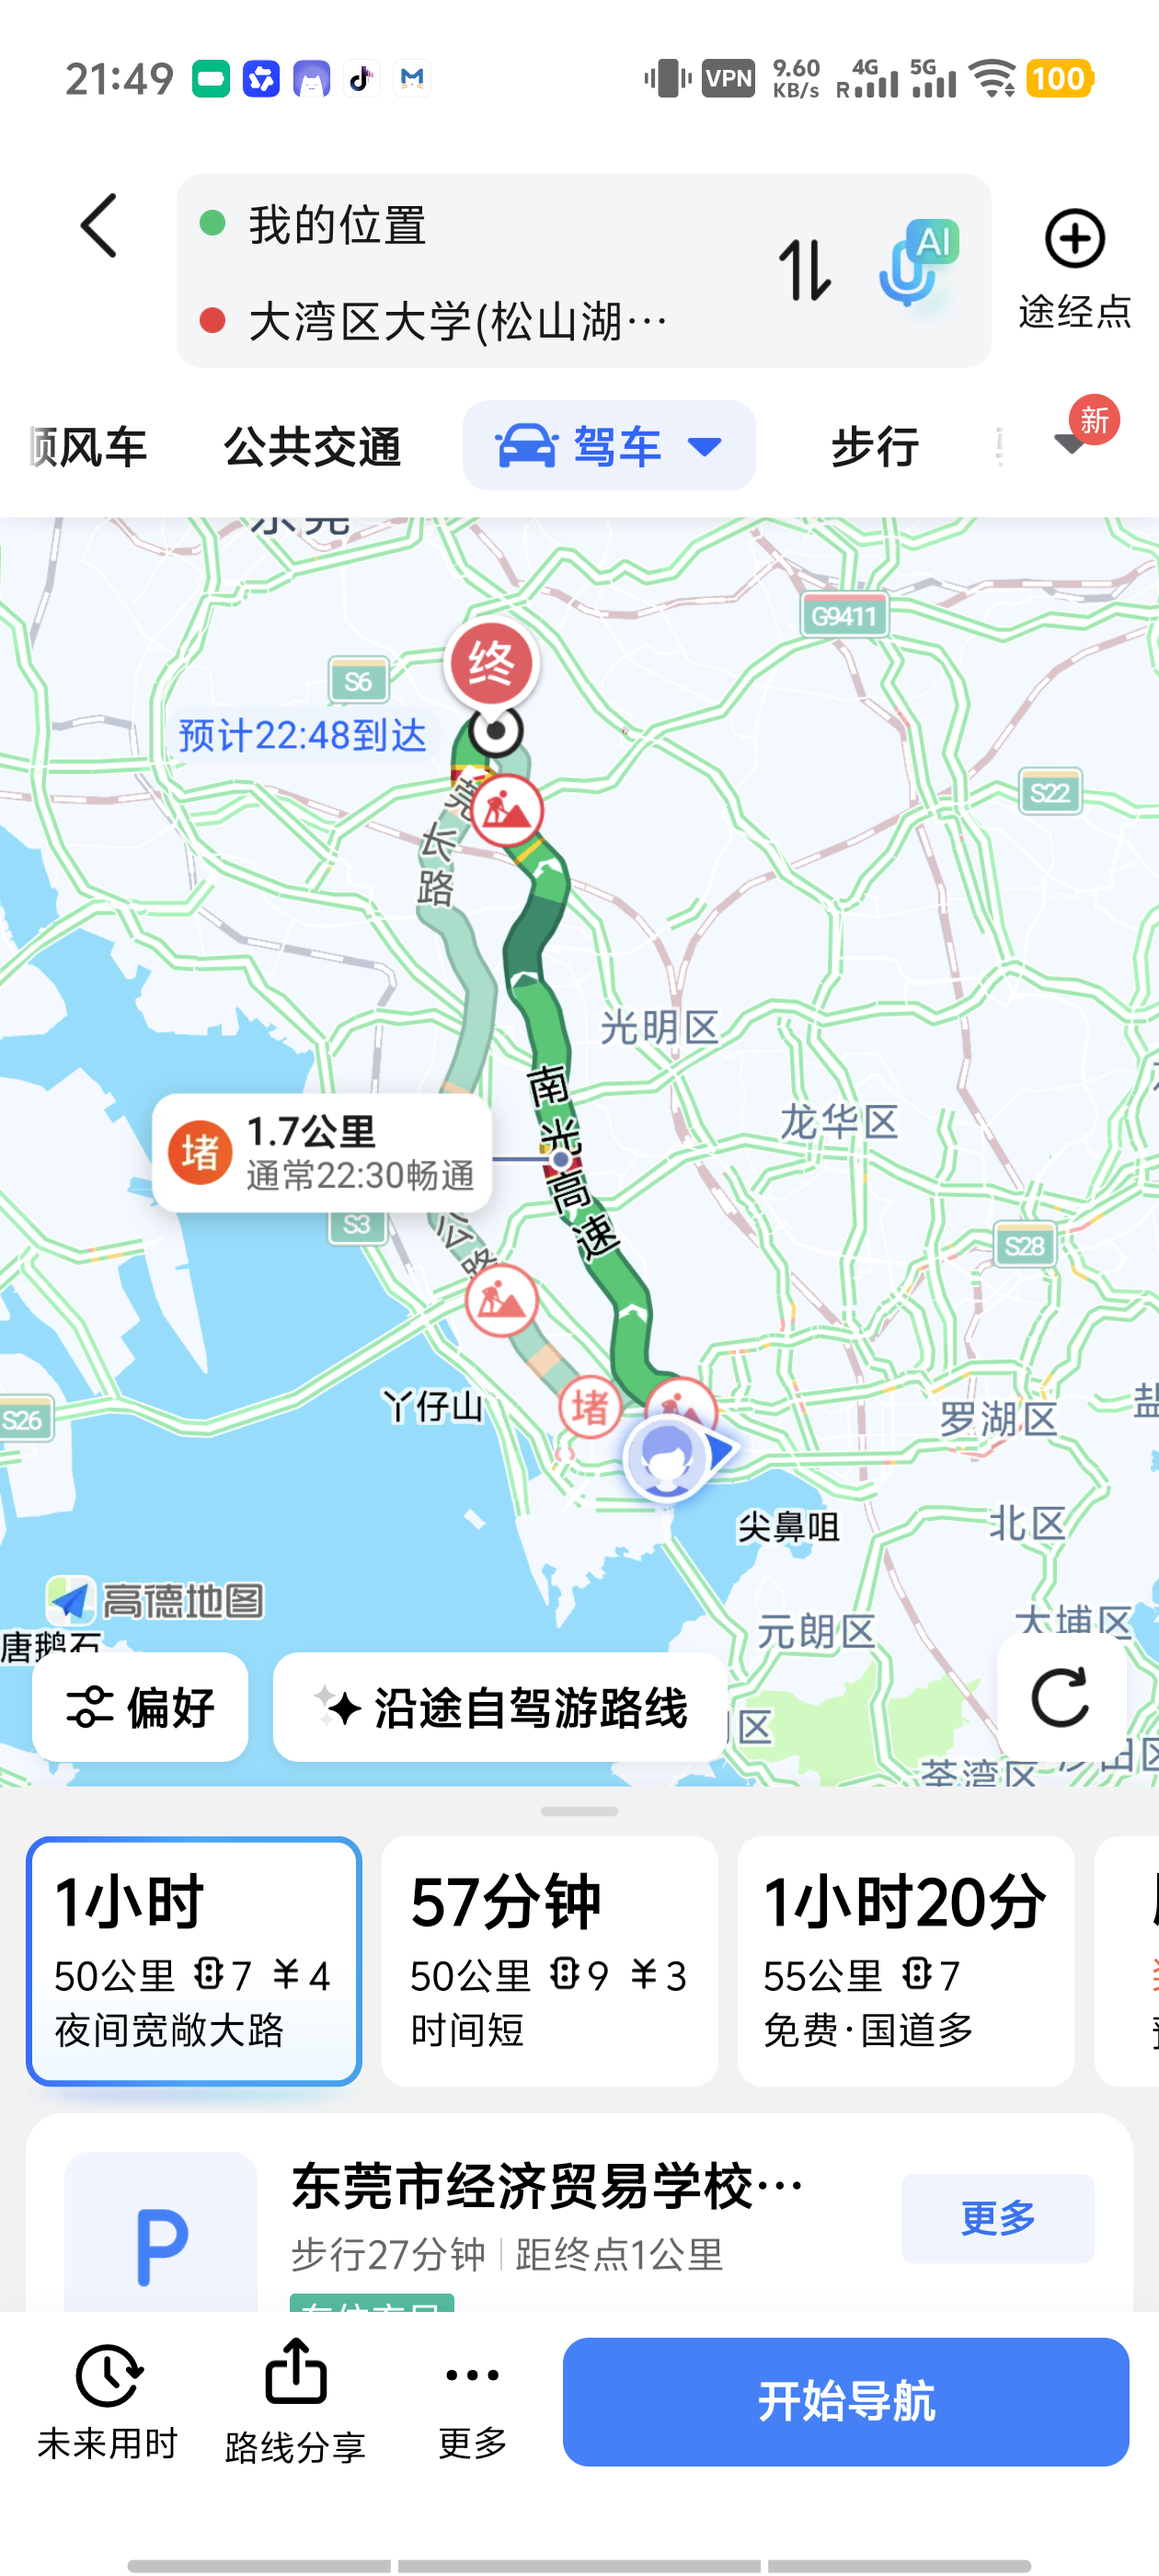
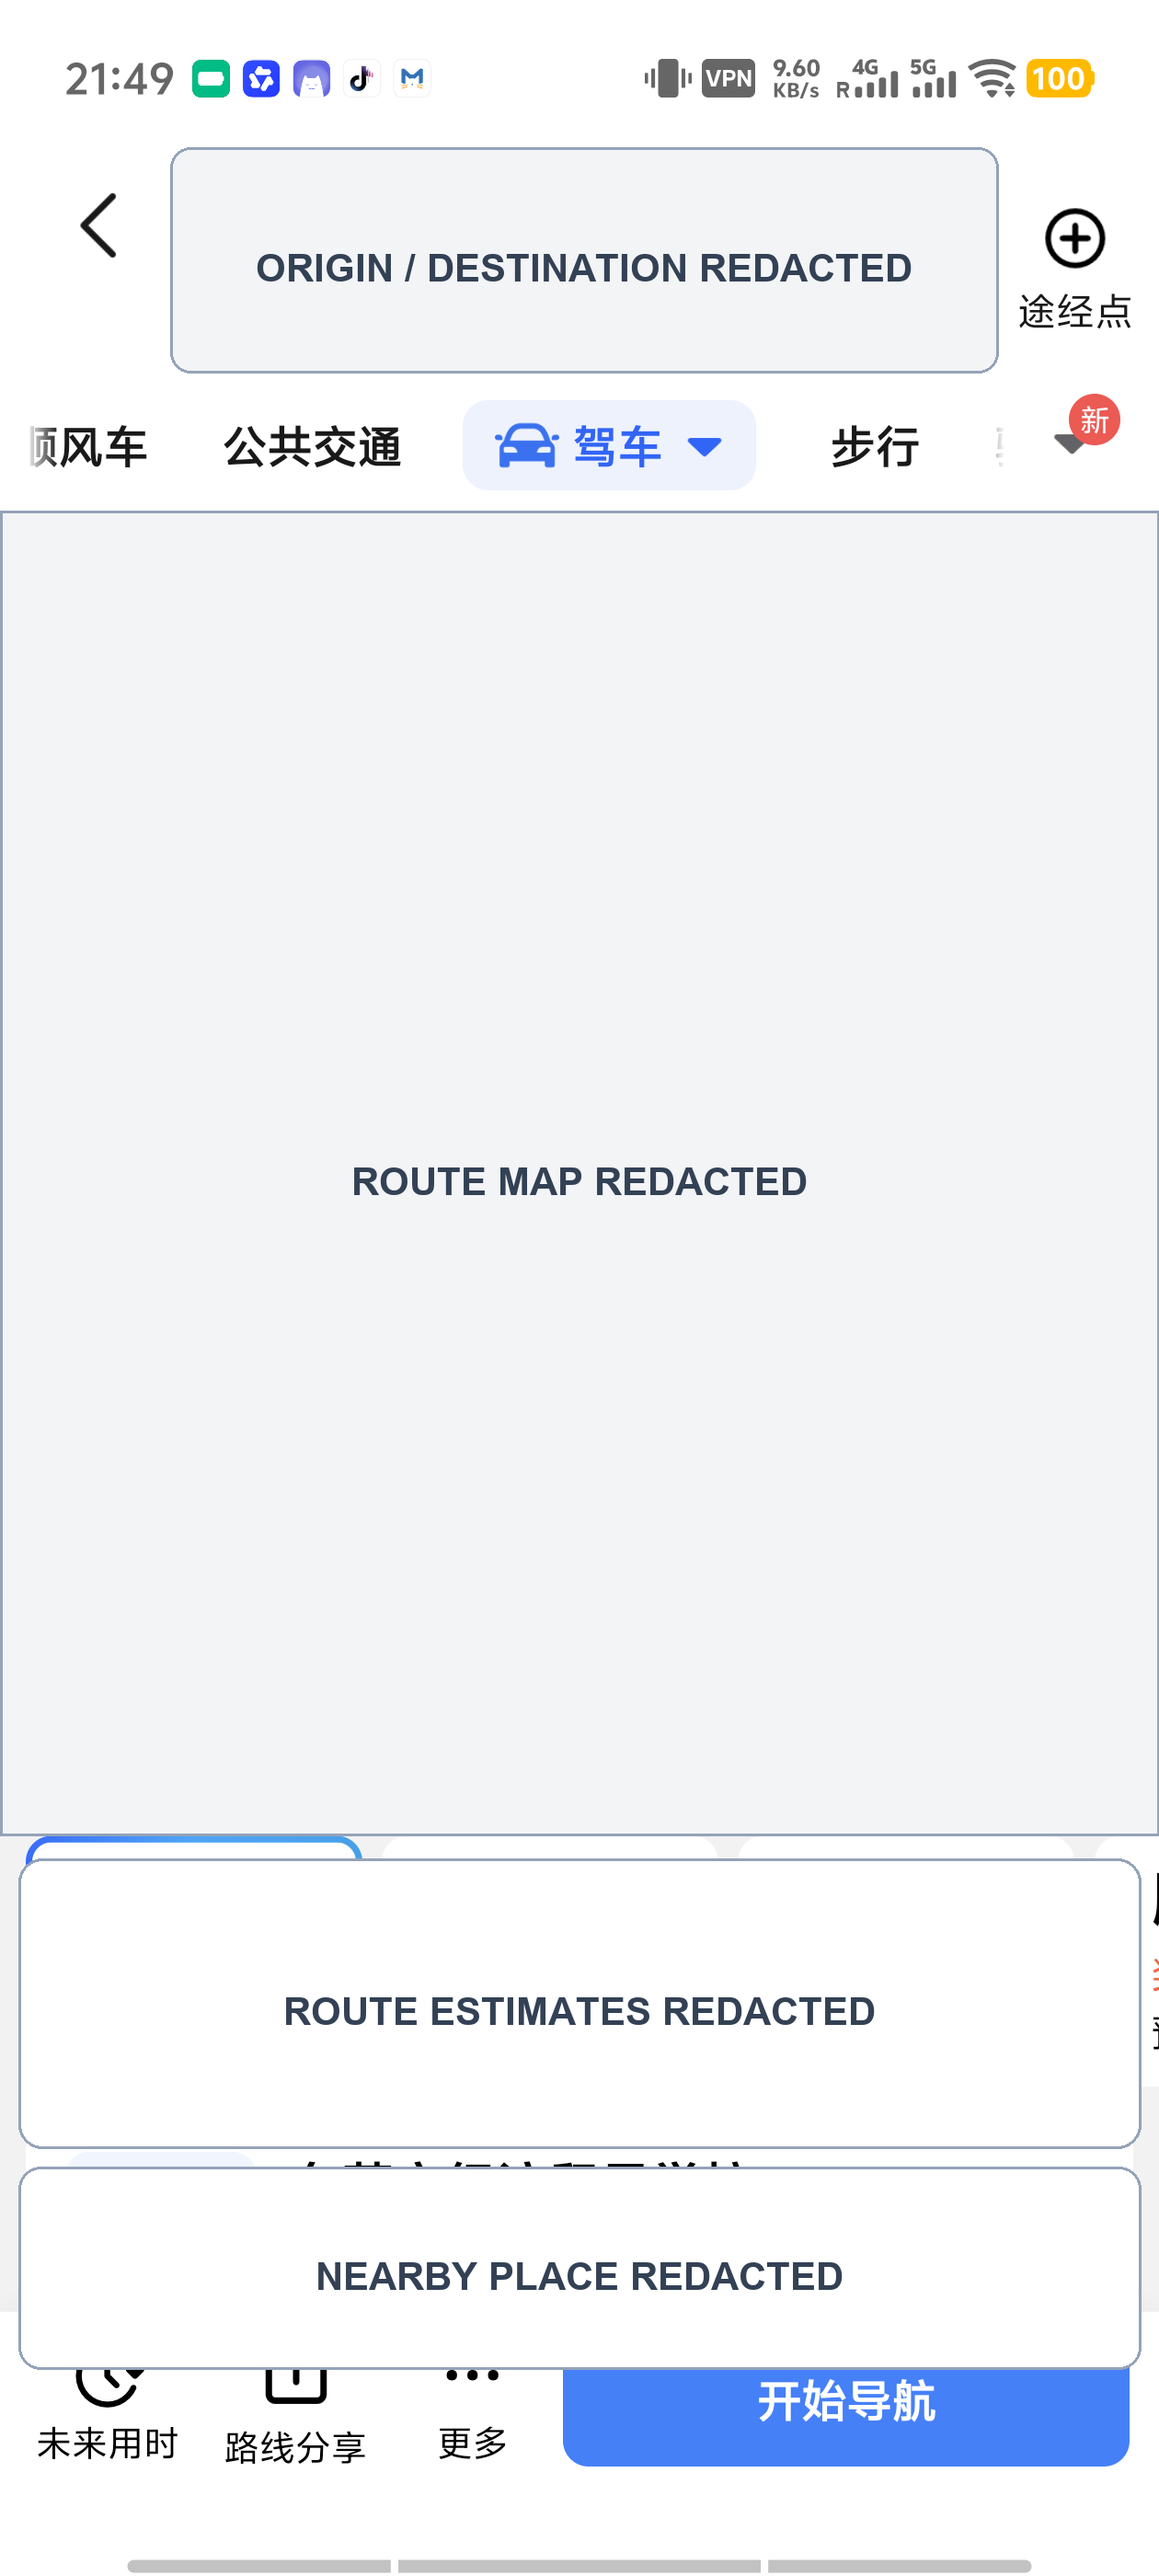
Redact mobile-on-mobile demo details

diff --git a/Docs/experiments/mobile-on-mobile-agent-loop.md b/Docs/experiments/mobile-on-mobile-agent-loop.md
@@ -26,13 +26,14 @@ flowchart LR
 
 ## Demo task
 
-Task: ask from the phone, then have desktop Codex operate the same phone to check how long it takes to go from the current location to Great Bay University in Amap.
+Task: ask from the phone, then have desktop Codex operate the same phone to check how long it takes to go from the current location to a redacted destination in a map app.
 
 Result observed in the live demo:
 
-- Amap found `大湾区大学（松山湖校区）` in Dongguan.
-- The driving route page showed about `50 km` and a fastest route of `57 minutes`.
-- The ride page showed about `48.2 km` and `56-57 minutes`.
+- The map app found the target destination.
+- The driving route page showed a route estimate.
+- The ride page showed a ride estimate.
+- The exact destination, route distance, timing, and map context are redacted in the published artifact.
 - No ride order, payment, message sending, or irreversible action was confirmed.
 
 ## Evidence
@@ -43,22 +44,22 @@ Phone-side Codex control surface:
   <img src="../assets/demo/mobile-on-mobile/01-phone-codex-command.png" width="300" alt="Phone-side Codex session">
 </p>
 
-Amap target search result:
+Map target search result:
 
 <p align="center">
-  <img src="../assets/demo/mobile-on-mobile/02-amap-search-result.png" width="300" alt="Amap search result for Great Bay University">
+  <img src="../assets/demo/mobile-on-mobile/02-amap-search-result.png" width="300" alt="Map search result with destination redacted">
 </p>
 
-Amap driving route estimate:
+Map driving route estimate:
 
 <p align="center">
-  <img src="../assets/demo/mobile-on-mobile/03-amap-driving-eta.png" width="300" alt="Amap driving route estimate">
+  <img src="../assets/demo/mobile-on-mobile/03-amap-driving-eta.png" width="300" alt="Map driving route estimate with location details redacted">
 </p>
 
-Amap ride estimate:
+Map ride estimate:
 
 <p align="center">
-  <img src="../assets/demo/mobile-on-mobile/04-amap-ride-eta.png" width="300" alt="Amap ride estimate">
+  <img src="../assets/demo/mobile-on-mobile/04-amap-ride-eta.png" width="300" alt="Map ride estimate with location details redacted">
 </p>
 
 ## Minimal reproduction
@@ -86,7 +87,7 @@ Representative ADB actions:
 
 ```sh
 adb devices -l
-adb shell monkey -p com.autonavi.minimap -c android.intent.category.LAUNCHER 1
+adb shell monkey -p your.map.package.name -c android.intent.category.LAUNCHER 1
 adb exec-out screencap -p > screen.png
 adb shell uiautomator dump /sdcard/window.xml
 adb exec-out cat /sdcard/window.xml > window.xml
@@ -105,4 +106,3 @@ adb shell input tap 1100 1300
 The important result is not that ADB can tap a phone. The important result is that a mobile agent session can trigger a desktop agent to operate the same mobile GUI, then report back to the user on the phone.
 
 This points to a broader pattern: phone as controller, desktop as executor, real app GUI as the action surface.
-

diff --git a/Docs/blog/mobile-on-mobile-agent-loop.zh.md b/Docs/blog/mobile-on-mobile-agent-loop.zh.md
@@ -10,7 +10,7 @@
 
 过去我们通常把手机理解成 Agent 的遥控器。比如人在路上，用手机查看桌面 Codex 的进度，批准命令，补充上下文。
 
-但这次多了一层：手机不只是遥控器，它也是任务对象。手机端发出指令后，电脑端 Agent 可以打开同一台手机上的高德、浏览器、微信、文件 App，像人一样看屏幕、点按钮、读结果、截图确认。
+但这次多了一层：手机不只是遥控器，它也是任务对象。手机端发出指令后，电脑端 Agent 可以打开同一台手机上的地图、浏览器、微信、文件 App，像人一样看屏幕、点按钮、读结果、截图确认。
 
 这个 loop 是：
 
@@ -22,15 +22,16 @@
 -> 结果回到手机端 Codex
 ```
 
-## Demo：查去大湾区大学要多久
+## Demo：查去一个目的地要多久
 
-我选了一个生活任务做验证：从当前位置到“大湾区大学（松山湖校区）”，用高德地图看路线和用时。
+我选了一个生活任务做验证：从当前位置到一个已打码目的地，用地图 App 看路线和用时。
 
 实际结果：
 
-- 高德搜索到了东莞的“大湾区大学（松山湖校区）”。
-- 驾车路线显示约 50 公里，最快约 57 分钟。
-- 顺风车/叫车类页面显示约 48.2 公里，约 56-57 分钟。
+- 地图 App 搜索到了目标地点。
+- 驾车路线返回了路线估算。
+- 顺风车/叫车类页面返回了用时估算。
+- 发布版本已打码真实目的地、路线距离、用时和地图上下文。
 - 没有进行下单、支付、打电话或任何不可逆操作。
 
 这个任务足够生活化，也足够能验证闭环：它不是在命令行里打印一句话，而是真的让 Agent 操作了手机上的真实 App。
@@ -68,4 +69,3 @@ Mobile-on-Mobile Agent Loop 展示了一个未来可能：手机端 Agent 不只
 这不是为了替代 App API，也不是为了做一个复杂自动化平台。它更像一个小而清晰的实验：当手机、桌面 Agent 和 ADB 连起来后，真实世界的 App 任务可以被纳入 Agent workflow。
 
 下一步不是急着做大软件，而是把这套模式沉淀成可复现的实验、清晰的安全规则，以及少量可复用 workflow。
-

diff --git a/Docs/workflows/mobile-gui-agent-loop.md b/Docs/workflows/mobile-gui-agent-loop.md
@@ -53,7 +53,7 @@ adb exec-out cat /sdcard/window.xml > window.xml
 4. Prefer app intents for opening apps, then GUI actions for app-specific flows.
 
 ```sh
-adb shell monkey -p com.autonavi.minimap -c android.intent.category.LAUNCHER 1
+adb shell monkey -p your.map.package.name -c android.intent.category.LAUNCHER 1
 ```
 
 5. Use screenshots after each major action.
@@ -68,7 +68,7 @@ adb exec-out screencap -p > step.png
 
 ```text
 Use the connected Android phone through USB ADB.
-Open Amap.
+Open the target map app.
 Search for [destination].
 Read the route or ride estimate from the app.
 Do not place an order, pay, call, or change settings.
@@ -80,4 +80,3 @@ Return the result with screenshot evidence.
 - Coordinate taps are acceptable for experiments, but UI tree text should be used whenever possible.
 - Chinese text input through plain `adb shell input text` is unreliable on many Android builds. Prefer app URI schemes, visible search suggestions, or a dedicated ADB keyboard for repeated workflows.
 - If the app shows a pending payment or historical order, stop unless the user explicitly asks to handle it.
-
